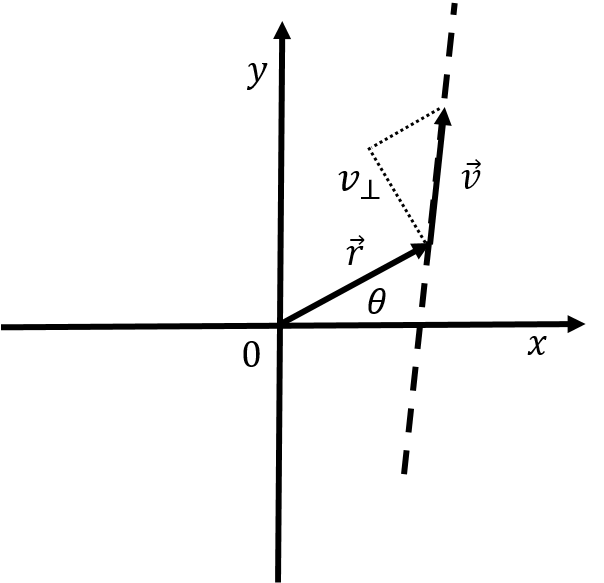
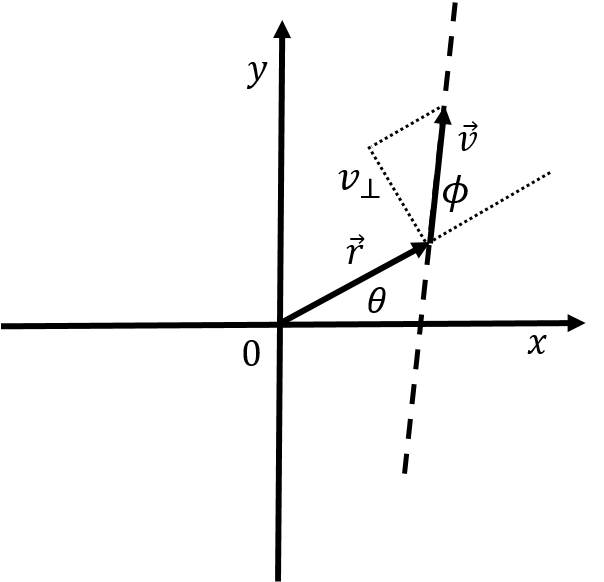
Didn't do much :-(

diff --git a/tex/RotationalDynamics.tex b/tex/RotationalDynamics.tex
@@ -47,6 +47,10 @@ v_s &= \frac{ds}{dt} =\frac{d}{dt}R\theta = R\omega\\
 a_s&= \frac{dv}{dt} =\frac{d}{dt}R\omega = R\alpha
 \end{align*}
 where the radius of the circle, $R$, is a constant that can be taken out of the time derivatives. It should be noted that for motion along a circle, the velocity of the particle is always tangent to the circle, so $v_s$ corresponds to the speed of the particle. The acceleration vector is in general not tangent to the circle; $a_s$ represents the component of the acceleration vector that is tangent to the circle. If $a_s=0$, then $\alpha=0$, and the particle is moving with a constant speed (uniform circular motion).
+
+
+
+
 \subsection{Vector rotational kinematic quantities}
 In the previous section, we defined the scalar quantities to describe the motion of a particle along a circle of radius $R$. We can define the same angular quantities without requiring that the particle move along a circle, \textbf{as long as we define a point of rotation}. In general, we choose that point of rotation to be the origin of a coordinate system. 
 
@@ -63,7 +67,7 @@ where $\phi$ is the angle between the position and velocity vectors, which is $\
 
 Again, referring to Figure \ref{fig:rotationaldynamics:vcircle} for motion along a circle, the \textbf{direction of the angular velocity} vector is in the positive $z$ direction (out of the page). The \textbf{angular velocity vector is thus co-linear with the axis of rotation (the $z$ axis)} in such a way that the direction of the rotation is given by the right hand rule for rotational quantities\footnote{This is in contrast to the right-hand rule for taking a vector product.}. 
 
-The right hand rule for rotational quantities allows us to use a vector (e.g. angular velocity) to \textbf{describe both an axis of rotation and a direction of rotation about that axis}. Given a rotational vector (technically called a pseudo-vector), the corresponding axis of rotation is co-linear with the vector and the direction of rotation is that obtained by curling the fingers of the right-hand when the thumb points in the same direction as the vector. This is illustrated in Figure \ref{}
+The right hand rule for rotational quantities allows us to use a vector (e.g. angular velocity) to \textbf{describe both an axis of rotation and a direction of rotation about that axis}. Given a rotational vector (technically called a pseudo-vector), the corresponding axis of rotation is co-linear with the vector and the direction of rotation is that obtained by curling the fingers of the right-hand when the thumb points in the same direction as the vector. This is illustrated in Figure \ref{fig:rotationaldynamics:hand}.
 \capfig{0.4\textwidth}{figures/RotationalDynamics/hand.png}{\label{fig:rotationaldynamics:hand} The right-hand rule for rotational quantities.}
 TODO: Need to update the figure to correspond to what we need here, and likely update the Vectors appendix to talk about this. We should perhaps also find a better name than "right hand rule for rotational quantities" - is there an official name, so that we distinguish it from the rule for taking cross-products? I'm not a fan of Right hand rule 1 and 2.
 
@@ -73,13 +77,59 @@ The angular velocity describes the motion of the particle as if it were instanta
 \begin{align*}
 ||\vec \omega|| = \frac{v_\perp}{r}=\frac{v\sin\phi}{r}
 \end{align*}
-where $\phi$ is the angle between $\vec r$ and $\vec v$.
+where $\phi$ is the angle between $\vec r$ and $\vec v$. As you recall, the cross product between vectors selects the components of the vectors that are perpendicular to each other and multiplies them. The scalar product, instead, selects the components of vectors that are parallel to each other. In most cases, we will however consider situations when the particle is moving in a circle.
 
+Similarly, we can define the angular acceleration vector, $\vec \alpha$, about the a rotation point centred at the origin of a coordinate system:
+\begin{align}
+\vec \alpha = \frac{1}{r^2}\vec r \times \vec a
+\end{align}
+where $\vec r$ is the position vector of the particle relative to the origin and $\vec a$ is the particle's acceleration vector. If the particle is rotating around a circle centred at the origin, then the magnitude of the acceleration vector is the angular acceleration that we defined above. If the particle is moving along some arbitrary trajectory, then the magnitude of the angular acceleration vector corresponds to the angular acceleration of the particle as if it were instantaneously rotating about a circle of radius $r$ centred at the origin. 
 
+\section{Newton's Second Law for rotational dynamics}
+Suppose that a single force, $\vec F$, is acting on a particle of mass $m$.  Newton's Second Law for the particle is then given by:
+\begin{align*}
+\vec F = m \vec a
+\end{align*}
+We define a coordinate system such that $\vec r$ is the position vector of the particle, and take the cross-product of $vec r$ with Newton's Second Law:
+\begin{align*}
+\vec r \times \vec F &= m \vec r \times \vec a
+\end{align*}
+The left hand-side of the equation is called ``the torque of $\vec F$ relative to the origin'', and usually denoted by $\vec tau$:
+\begin{align}
+\Aboxed{\vec \tau = \vec r \times \vec F}
+\end{align}
+The right-hand side of the equation is related to the angular acceleration vector, $\vec \alpha$, that we described in the previous section:
+\begin{align*}
+ m \vec r \times \vec a = mr^2\vec\alpha
+\end{align*}
+Putting this altogether, we get:
+\begin{align*}
+\vec\tau = mr^2 \vec\alpha
+\end{align*}
+
+If there are more than one forces acting on the particle, it easy to show that the torque from the net force on the particle is equal to the sum of the torques on the particle:
+\begin{align*}
+\vec r \times (\vec F_1 + \vec F_2 + \vec F_3 + \dots) &=  (\vec r \times \vec F_1 + \vec r \times \vec F_2 + \vec r \times \vec F_3 + \dots) \\
+\therefore \vec r \times \sum \vec F &= \sum \tau = \pvec \tau^{net}
+\end{align*}
+
+We can write Newton's Second Law for the rotational dynamics of a particle:
+\begin{align}
+\sum \vec \tau = \pvec \tau ^{net} = mr^2 \vec \alpha
+\end{align}
+The left-hand side of the equation corresponds to the ``causes of motion'' (much like the sum of the forces in Newton's Second Law), and the right-hand side of the equation to the inertia and kinematics. A few things to note when comparing to Newton's Second Law:
+\begin{enumerate}
+\item The rotational quantities, torque and angular acceleration, \textbf{are only defined with respect to a point of rotation} (the origin of the coordinate system, which determines the vector $\vec r$).
+\item The angular acceleration of a particle is proportional to the net torque exerted on it, much like the linear acceleration is proportional to the net force exerted on the particle.
+\item Torque about a point can be thought of as a force that makes things rotate about that point.
+\item Instead of mass, it is mass times $r^2$ that plays the role of inertia and determines how large of an acceleration the particle will experience for a given torque.  
+\end{enumerate}
+
+\section{Moment of inertia}
 
 \section{Torque}
 
-\section{Moment of inertia}
+
 
 
 \newpage
